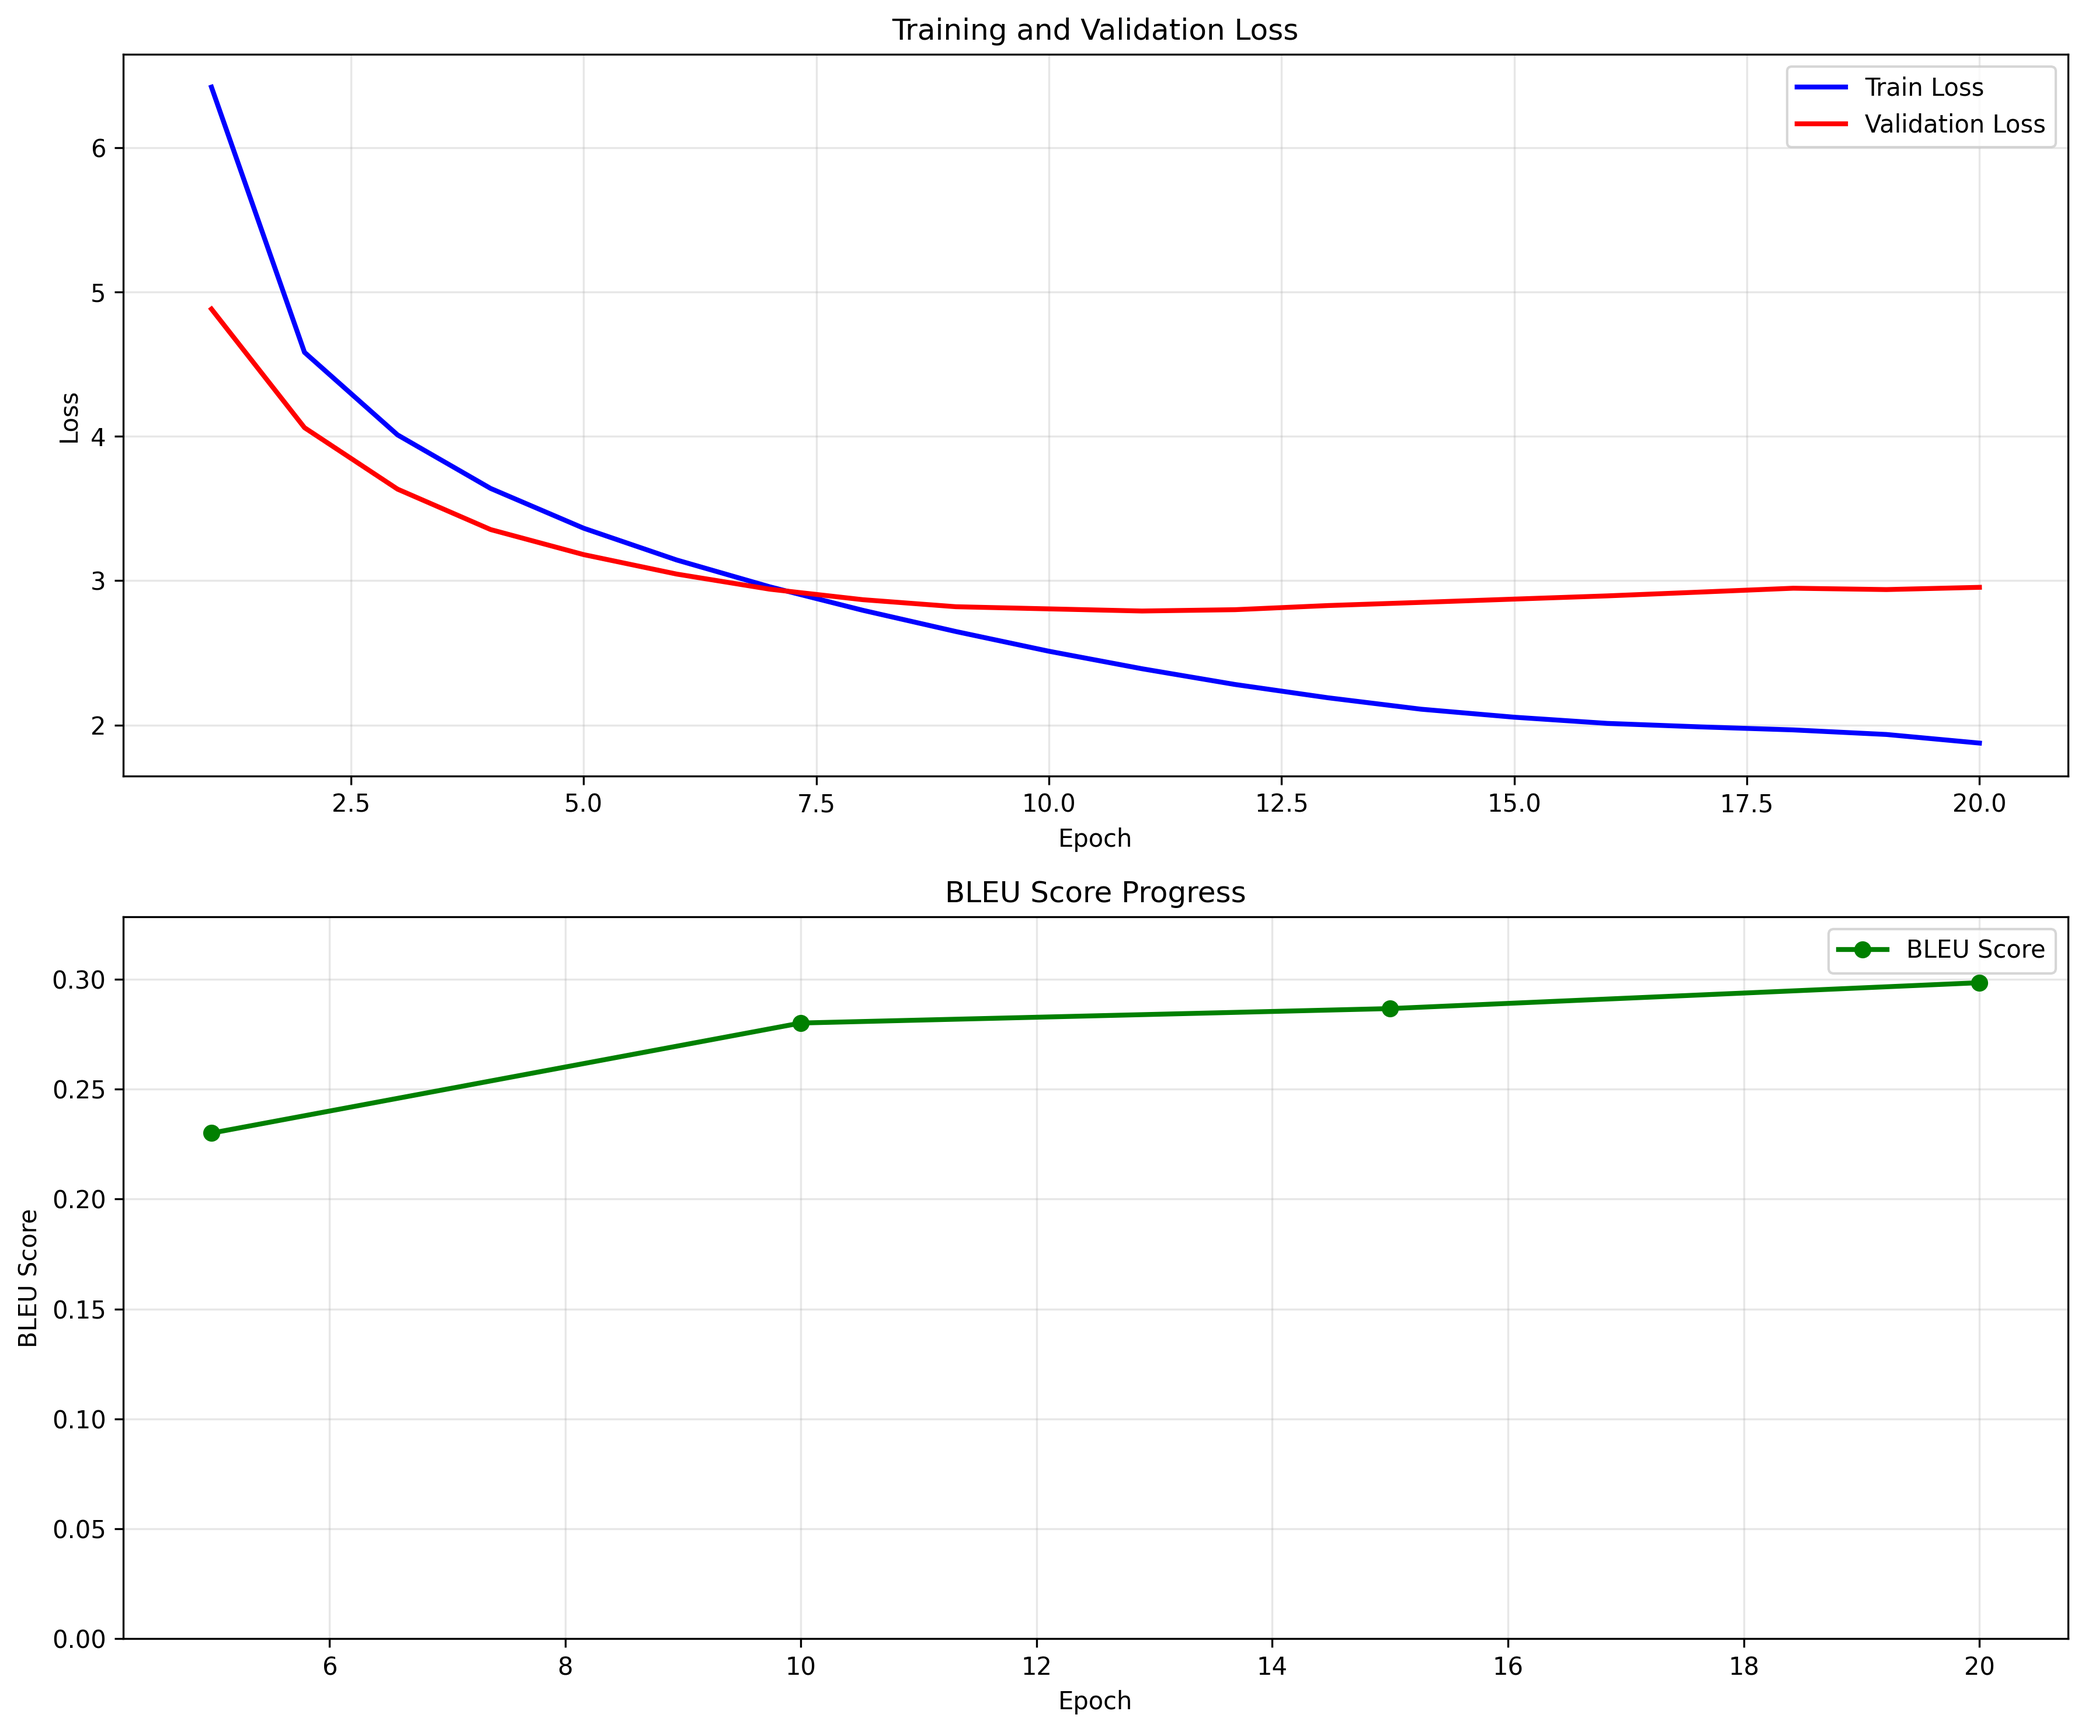
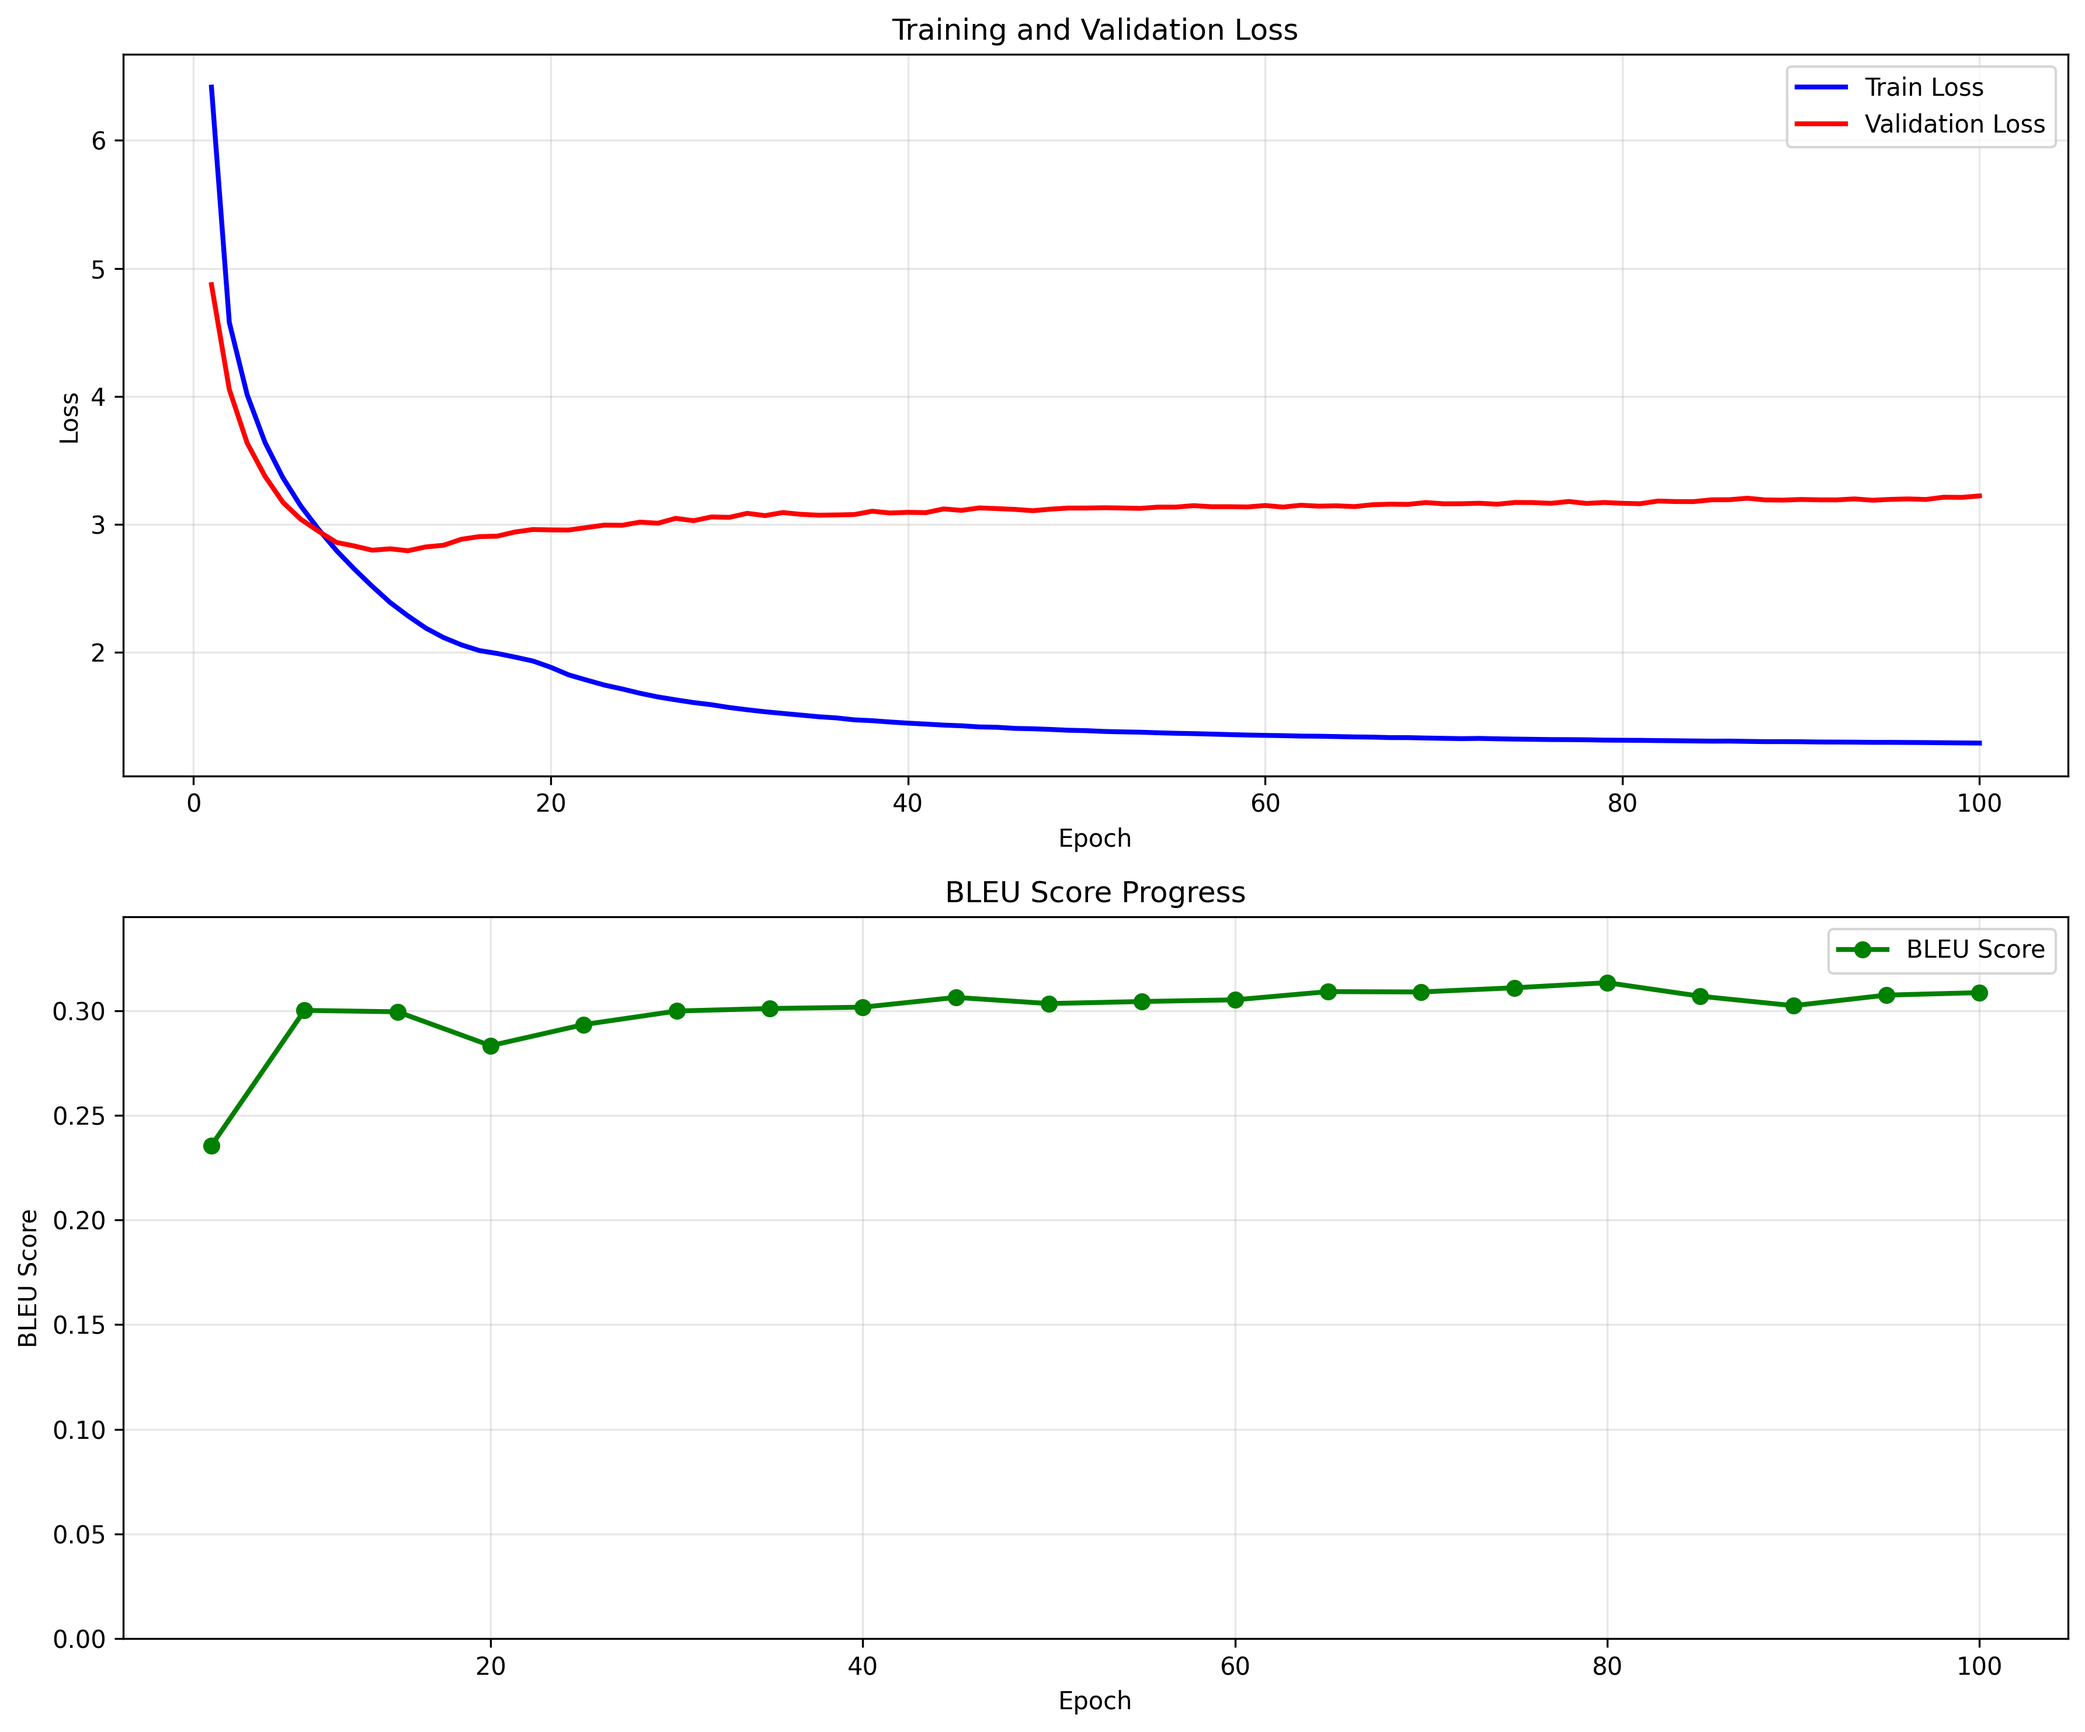
added testing results (100 epochs)

diff --git a/train_multi30k.py b/train_multi30k.py
@@ -371,7 +371,7 @@ def plot_training_results(train_losses, valid_losses, bleu_scores, epochs, save_
     print(f"Plot saved to {save_path}")
 
 # Training loop
-N_EPOCHS = 20
+N_EPOCHS = 100
 CLIP = 1.0
 
 best_valid_loss = float('inf')
